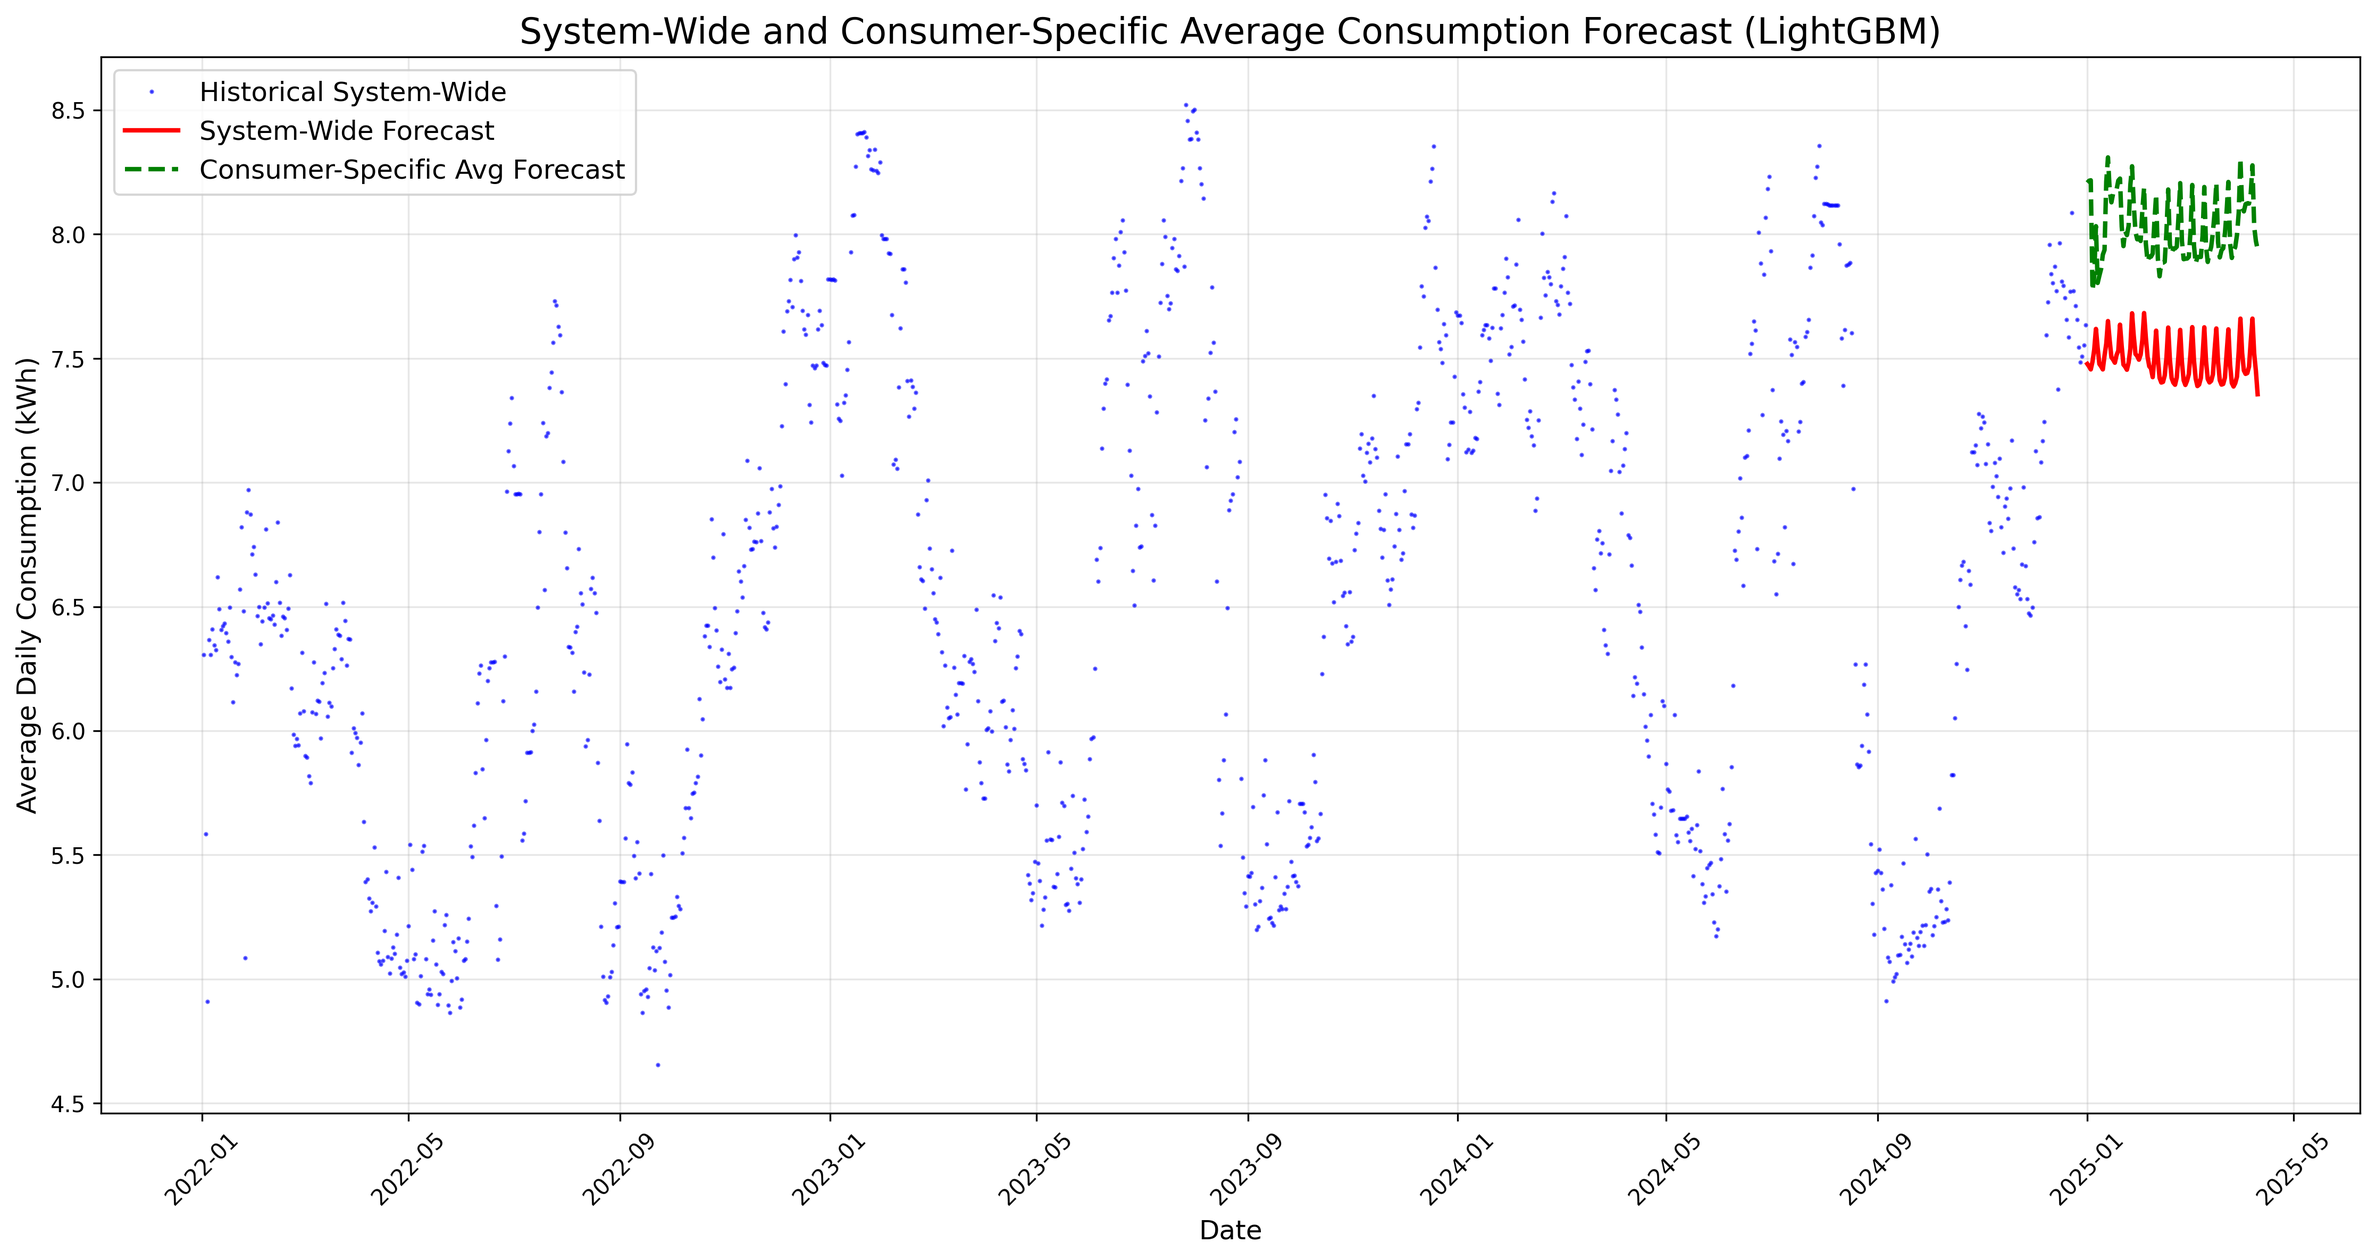
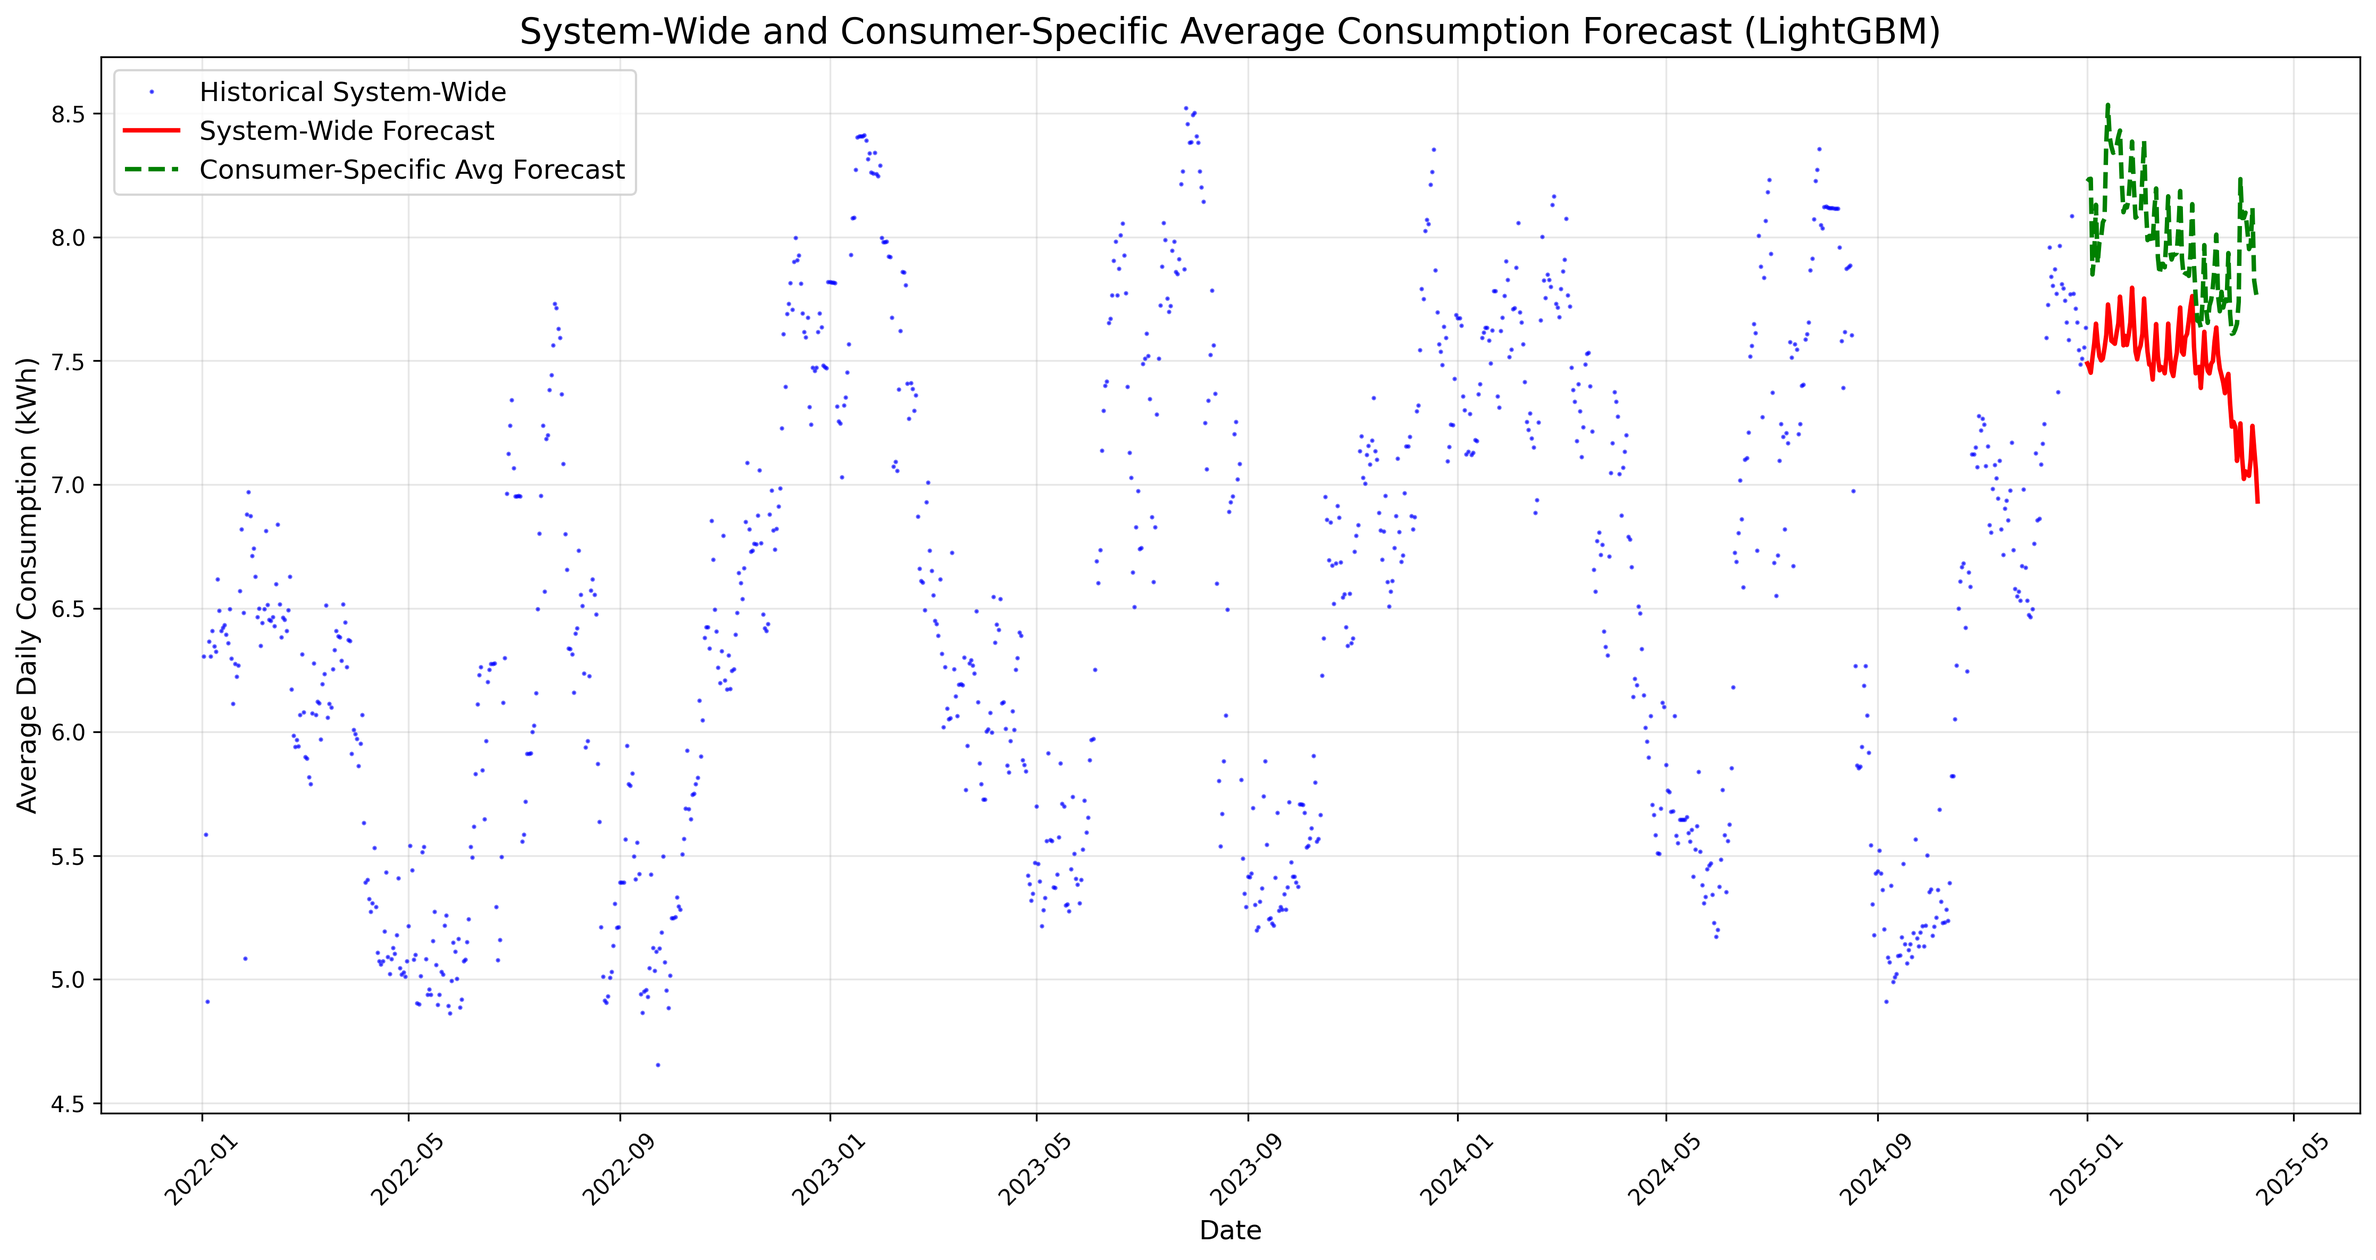
added a new py file to make a prophet model to make future temperature predictions that will be used to predict future consumptions

diff --git a/lightgbm_system_forecast.py b/lightgbm_system_forecast.py
@@ -23,6 +23,9 @@ logging.basicConfig(
     ]
 )
 
+future_temps = pd.read_csv('future_temps.csv')
+future_temps['ds'] = pd.to_datetime(future_temps['ds'])
+
 # ------------------ Data Preparation Functions ------------------
 def prepare_all_daily_consumption(df_readings):
     """Calculate daily consumption for all consumers, handling negative consumptions."""
@@ -266,7 +269,7 @@ def train_lightgbm_model(data, test_size=0.2, params=None):
         logging.error(f"Failed to train LightGBM model: {e}")
         raise
 
-def forecast_system_future(model, data, features, periods=100):
+def forecast_system_future(model, data, features, periods=100):  # Increased periods to 100 for consistency
     """Forecast future system-wide consumption for the specified periods."""
     logging.info(f"Forecasting next {periods} days (system-wide)...")
     
@@ -274,21 +277,48 @@ def forecast_system_future(model, data, features, periods=100):
         last_date = data['ds'].max()
         future_dates = pd.date_range(start=last_date + timedelta(days=1), periods=periods, freq='D')
         
-        future_data = pd.DataFrame({'ds': future_dates})
-        future_data['year'] = future_data['ds'].dt.year
-        future_data['month'] = future_data['ds'].dt.month
-        future_data['day_of_week'] = future_data['ds'].dt.dayofweek
-        future_data['day_of_year'] = future_data['ds'].dt.dayofyear
-        future_data['week_of_year'] = future_data['ds'].dt.isocalendar().week
-        
+        # Merge with forecasted temperatures
+        future_data = pd.DataFrame({
+            'ds': future_dates,
+            'year': future_dates.year,  # Use .year directly on DatetimeIndex
+            'month': future_dates.month,  # Use .month directly
+            'day_of_week': future_dates.dayofweek,  # Use .dayofweek directly
+            'day_of_year': future_dates.dayofyear,  # Use .dayofyear directly
+            'week_of_year': future_dates.isocalendar().week  # Use .isocalendar().week directly
+        })
+        future_data = future_data.merge(future_temps, on='ds', how='left')
+        future_data['avg_temp'] = future_data['avg_temp'].fillna(future_data['avg_temp'].mean())  # Fallback
+
+        # Initialize rolling means with last historical values
         last_row = data.iloc[-1]
-        for feature in features:
-            if feature not in ['year', 'month', 'day_of_week', 'day_of_year', 'week_of_year']:
-                future_data[feature] = last_row[feature]
-        
-        X_future = future_data[features]
-        future_predictions = model.predict(X_future)
-        
+        future_predictions = np.zeros(periods)
+        last_7 = list(data['y'].tail(7))
+        last_14 = list(data['y'].tail(14))
+        last_30 = list(data['y'].tail(30))
+
+        # Iterative forecasting
+        for i, date in enumerate(future_dates):
+            row = {
+                'ds': date,
+                'year': date.year,
+                'month': date.month,
+                'day_of_week': date.dayofweek,
+                'day_of_year': date.dayofyear,
+                'week_of_year': date.isocalendar().week,
+                'avg_temp': future_data.loc[future_data['ds'] == date, 'avg_temp'].values[0],
+                'rolling_mean_7': np.mean(last_7) if last_7 else 0,
+                'rolling_mean_14': np.mean(last_14) if last_14 else 0,
+                'rolling_mean_30': np.mean(last_30) if last_30 else 0
+            }
+            X_future = pd.DataFrame([row])[features]
+            pred = model.predict(X_future)[0]
+            future_predictions[i] = pred
+
+            # Update rolling means
+            last_7.append(pred); last_7 = last_7[-7:]
+            last_14.append(pred); last_14 = last_14[-14:]
+            last_30.append(pred); last_30 = last_30[-30:]
+
         # Validate predictions
         if (future_predictions < 0).any():
             logging.warning(f"Negative predictions detected in system-wide forecast: {future_predictions[future_predictions < 0]}")
@@ -304,7 +334,7 @@ def forecast_system_future(model, data, features, periods=100):
         logging.error(f"Failed to forecast system-wide: {e}")
         raise
 
-def forecast_consumer_future(model, data, features, valid_consumers, periods=100):
+def forecast_consumer_future(model, data, features, valid_consumers, periods=100):  # Increased periods to 100
     """Forecast future consumption for each consumer."""
     logging.info(f"Forecasting next {periods} days (consumer-specific)...")
     
@@ -314,8 +344,8 @@ def forecast_consumer_future(model, data, features, valid_consumers, periods=100
         
         future_data = []
         for consumer_id in valid_consumers:
-            consumer_data = data[data['consumer_id'] == consumer_id]
-            if consumer_data.empty:
+            consumer_history = data[data['consumer_id'] == consumer_id]
+            if consumer_history.empty:
                 logging.warning(f"No valid data for consumer {consumer_id}, assigning zero forecast")
                 for date in future_dates:
                     row = {
@@ -326,47 +356,70 @@ def forecast_consumer_future(model, data, features, valid_consumers, periods=100
                         'month': date.month,
                         'day_of_week': date.dayofweek,
                         'day_of_year': date.dayofyear,
-                        'week_of_year': date.isocalendar().week,
-                        'avg_temp': data['avg_temp'].median() if not data.empty else 20.0,
-                        'rolling_mean_7': 0.0,
-                        'rolling_mean_14': 0.0,
-                        'rolling_mean_30': 0.0
+                        'week_of_year': date.isocalendar().week
                     }
                     future_data.append(row)
             else:
-                consumer_data = consumer_data.iloc[-1]
+                last_row = consumer_history.iloc[-1]
+                # Initialize rolling means
+                last_7 = list(consumer_history['y'].tail(7)) if not consumer_history.empty else [0]*7
+                last_14 = list(consumer_history['y'].tail(14)) if not consumer_history.empty else [0]*14
+                last_30 = list(consumer_history['y'].tail(30)) if not consumer_history.empty else [0]*30
+
                 for date in future_dates:
+                    # Merge with future temperatures
+                    temp_value = future_temps.loc[future_temps['ds'] == date, 'avg_temp'].values
+                    avg_temp = temp_value[0] if len(temp_value) > 0 else last_row['avg_temp']
                     row = {
                         'ds': date,
                         'consumer_id': consumer_id,
-                        'group': consumer_data['group'],
+                        'group': last_row['group'],
                         'year': date.year,
                         'month': date.month,
                         'day_of_week': date.dayofweek,
                         'day_of_year': date.dayofyear,
                         'week_of_year': date.isocalendar().week,
-                        'avg_temp': consumer_data['avg_temp'],
-                        'rolling_mean_7': consumer_data['rolling_mean_7'],
-                        'rolling_mean_14': consumer_data['rolling_mean_14'],
-                        'rolling_mean_30': consumer_data['rolling_mean_30']
+                        'avg_temp': avg_temp,
+                        'rolling_mean_7': np.mean(last_7) if last_7 else 0,
+                        'rolling_mean_14': np.mean(last_14) if last_14 else 0,
+                        'rolling_mean_30': np.mean(last_30) if last_30 else 0
                     }
                     future_data.append(row)
-        
+
         future_data = pd.DataFrame(future_data)
         X_future = future_data[features]
         future_predictions = model.predict(X_future)
-        
+
+        # Update rolling means iteratively after all predictions
+        updated_predictions = np.zeros(len(future_dates) * len(valid_consumers))
+        start_idx = 0
+        for consumer_idx, consumer_id in enumerate(valid_consumers):
+            consumer_start_idx = consumer_idx * len(future_dates)
+            consumer_end_idx = (consumer_idx + 1) * len(future_dates)
+            consumer_preds = future_predictions[consumer_start_idx:consumer_end_idx]
+            
+            consumer_history = data[data['consumer_id'] == consumer_id]
+            last_7 = list(consumer_history['y'].tail(7)) if not consumer_history.empty else [0]*7
+            last_14 = list(consumer_history['y'].tail(14)) if not consumer_history.empty else [0]*14
+            last_30 = list(consumer_history['y'].tail(30)) if not consumer_history.empty else [0]*30
+
+            for i, pred in enumerate(consumer_preds):
+                updated_predictions[consumer_start_idx + i] = pred
+                if i < len(future_dates) - 1:  # Update for next iteration within consumer
+                    last_7.append(pred); last_7 = last_7[-7:]
+                    last_14.append(pred); last_14 = last_14[-14:]
+                    last_30.append(pred); last_30 = last_30[-30:]
+
         # Validate predictions
-        if (future_predictions < 0).any():
-            logging.warning(f"Negative predictions detected in consumer-specific forecast: {future_predictions[future_predictions < 0]}")
-            logging.warning(f"Negative predictions detected in consumer-specific forecast: ")
-            future_predictions = np.clip(future_predictions, 0, None)
+        if (updated_predictions < 0).any():
+            logging.warning(f"Negative predictions detected in consumer-specific forecast: {updated_predictions[updated_predictions < 0]}")
+            updated_predictions = np.clip(updated_predictions, 0, None)
         
         forecast_df = pd.DataFrame({
             'ds': future_data['ds'],
             'consumer_id': future_data['consumer_id'],
             'group': future_data['group'],
-            'yhat': future_predictions
+            'yhat': updated_predictions
         })
         
         return forecast_df
@@ -374,7 +427,7 @@ def forecast_consumer_future(model, data, features, valid_consumers, periods=100
         logging.error(f"Failed to forecast consumer-specific: {e}")
         raise
 
-def forecast_group_future(model, data, features, group_id, periods=100):
+def forecast_group_future(model, data, features, group_id, periods=100):  # Increased periods to 100
     """Forecast future average consumption for a specific group."""
     logging.info(f"Forecasting next {periods} days for group {group_id}...")
     
@@ -382,21 +435,48 @@ def forecast_group_future(model, data, features, group_id, periods=100):
         last_date = data['ds'].max()
         future_dates = pd.date_range(start=last_date + timedelta(days=1), periods=periods, freq='D')
         
-        future_data = pd.DataFrame({'ds': future_dates})
-        future_data['year'] = future_data['ds'].dt.year
-        future_data['month'] = future_data['ds'].dt.month
-        future_data['day_of_week'] = future_data['ds'].dt.dayofweek
-        future_data['day_of_year'] = future_data['ds'].dt.dayofyear
-        future_data['week_of_year'] = future_data['ds'].dt.isocalendar().week
-        
+        # Merge with forecasted temperatures
+        future_data = pd.DataFrame({
+            'ds': future_dates,
+            'year': future_dates.year,  # Use .year directly on DatetimeIndex
+            'month': future_dates.month,  # Use .month directly
+            'day_of_week': future_dates.dayofweek,  # Use .dayofweek directly
+            'day_of_year': future_dates.dayofyear,  # Use .dayofyear directly
+            'week_of_year': future_dates.isocalendar().week  # Use .isocalendar().week directly
+        })
+        future_data = future_data.merge(future_temps, on='ds', how='left')
+        future_data['avg_temp'] = future_data['avg_temp'].fillna(future_data['avg_temp'].mean())  # Fallback
+
+        # Initialize rolling means with last historical values
         last_row = data.iloc[-1]
-        for feature in features:
-            if feature not in ['year', 'month', 'day_of_week', 'day_of_year', 'week_of_year']:
-                future_data[feature] = last_row[feature]
-        
-        X_future = future_data[features]
-        future_predictions = model.predict(X_future)
-        
+        future_predictions = np.zeros(periods)
+        last_7 = list(data['y'].tail(7))
+        last_14 = list(data['y'].tail(14))
+        last_30 = list(data['y'].tail(30))
+
+        # Iterative forecasting
+        for i, date in enumerate(future_dates):
+            row = {
+                'ds': date,
+                'year': date.year,
+                'month': date.month,
+                'day_of_week': date.dayofweek,
+                'day_of_year': date.dayofyear,
+                'week_of_year': date.isocalendar().week,
+                'avg_temp': future_data.loc[future_data['ds'] == date, 'avg_temp'].values[0],
+                'rolling_mean_7': np.mean(last_7) if last_7 else 0,
+                'rolling_mean_14': np.mean(last_14) if last_14 else 0,
+                'rolling_mean_30': np.mean(last_30) if last_30 else 0
+            }
+            X_future = pd.DataFrame([row])[features]
+            pred = model.predict(X_future)[0]
+            future_predictions[i] = pred
+
+            # Update rolling means
+            last_7.append(pred); last_7 = last_7[-7:]
+            last_14.append(pred); last_14 = last_14[-14:]
+            last_30.append(pred); last_30 = last_30[-30:]
+
         # Validate predictions
         if (future_predictions < 0).any():
             logging.warning(f"Negative predictions detected in group {group_id} forecast: {future_predictions[future_predictions < 0]}")
@@ -520,6 +600,11 @@ def main():
     except Exception as e:
         logging.error(f"Failed to load reading files: {e}")
         raise
+
+    # Select a small fraction (first 100 unique consumers) for testing
+    # unique_consumers = df_readings['consumer_id'].unique()[:100]
+    # df_readings = df_readings[df_readings['consumer_id'].isin(unique_consumers)]
+    # logging.info(f"Selected {len(unique_consumers)} unique consumers for testing.")
 
     # Filter consumers with sufficient data
     min_days = 365

diff --git a/prophet_temperature_forecast.py b/prophet_temperature_forecast.py
@@ -1,0 +1,35 @@
+# temperature_forecast.py
+import pandas as pd
+import numpy as np
+from datetime import timedelta
+from prophet import Prophet  # Using Prophet as primary due to SARIMAX limitations
+
+# --- Load and Prepare Data ---
+try:
+    df = pd.read_csv("csv/temperature.csv")
+    df = df.rename(columns={'date': 'ds', 'tavg': 'y'})  # Prophet requires 'ds' and 'y'
+    df['ds'] = pd.to_datetime(df['ds'])
+    df = df[['ds', 'y']].dropna()  # Keep only ds and y, drop NA
+except FileNotFoundError:
+    print("Error: 'csv/temperature.csv' not found. Please ensure the file exists.")
+    exit(1)
+except KeyError:
+    print("Error: 'date' or 'tavg' column not found in temperature.csv. Check column names.")
+    exit(1)
+
+# --- Train Prophet Model ---
+model = Prophet(yearly_seasonality=True, daily_seasonality=False, weekly_seasonality=False)
+model.fit(df)
+
+# --- Forecast Daily (e.g., for 730 days ~2 years) ---
+future = model.make_future_dataframe(periods=730)
+forecast = model.predict(future)
+
+# --- Extract Forecasted Temperatures ---
+future_temps = forecast[['ds', 'yhat']].tail(730)  # Last 730 days
+future_temps.columns = ['ds', 'avg_temp']  # Rename for consistency
+
+# --- Save to CSV ---
+future_temps.to_csv('future_temps.csv', index=False)
+print("Future temperatures forecasted and saved to 'future_temps.csv'.")
+print(future_temps.head())

diff --git a/README.md b/README.md
@@ -154,7 +154,7 @@ python forecast_consumption.py
 - **Data Size**:  
   - Input: ~9.4M readings, 11,357 consumers  
   - Processed: ~12.3M daily rows  
-- **Runtime**: ~31 min (consumer-level training = bottleneck)  
+- **Runtime**: ~31 min for 100 days (consumer-level training = bottleneck)  
 - **Latest Run (2025-08-27)**:  
   - System-wide: RMSE = 0.27, MAE = 0.21 (3.2% error)  
   - Consumer: RMSE = 2.59, MAE = 1.33 (33.2% error)  
